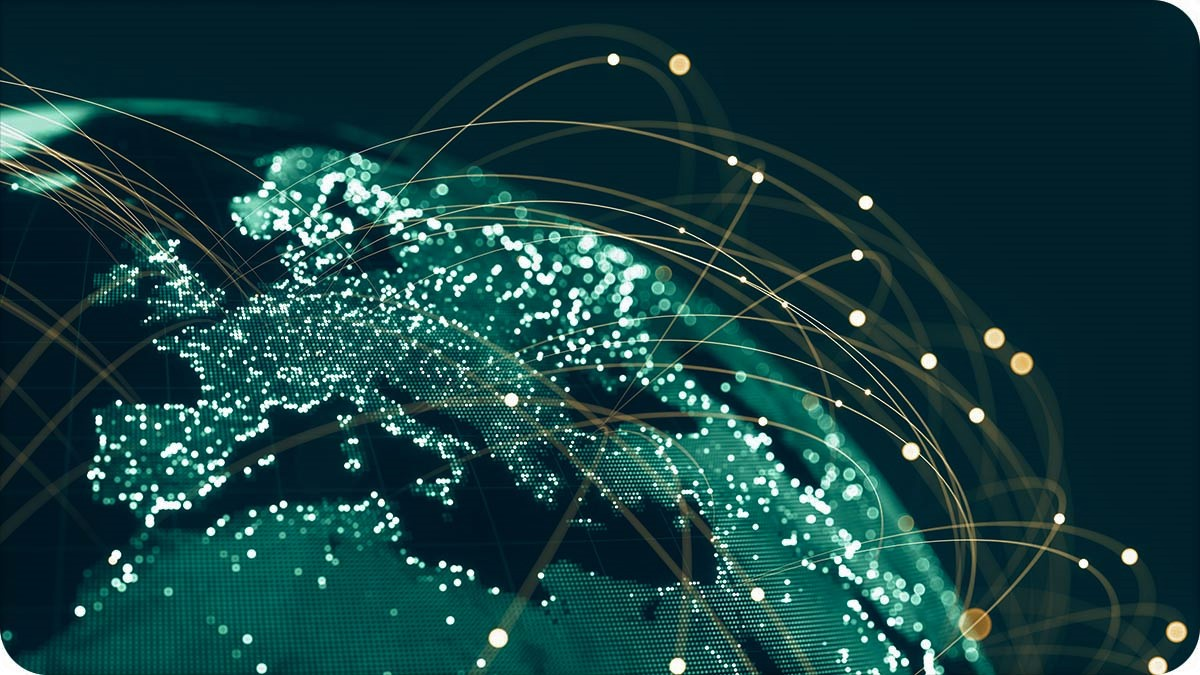
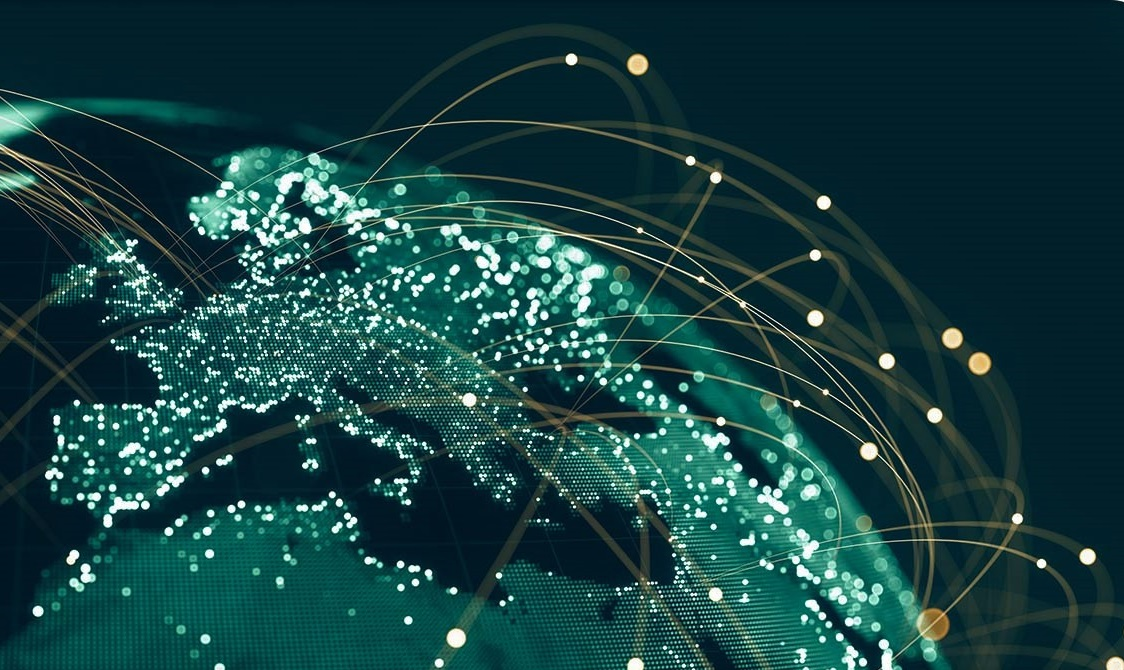
background-attachment: fixed
index, empresas y movilidad

diff --git a/style.css b/style.css
@@ -70,6 +70,11 @@ footer{
 body{
     background-color: black;
 }
+.bodyIEM{
+    background-image: url("src/pexels-mahdi-bafande-14226381.jpg");
+    background-size: contain;
+    background-attachment: fixed;
+}
 
 h1{
     color:white;
@@ -261,7 +266,7 @@ p {
                         /*FIN EMPRESAS*/
 
 
-                        /*MOVILIDAD*/
+                        /*MOVILIDAD*/                       
 .princMovilidad{
     background-image: url("src/2.jpg");
     background-size: 100%;

diff --git a/Empresas.html b/Empresas.html
@@ -8,7 +8,7 @@
 		<link rel="stylesheet" href="style.css">  <!-- Aqui podes incluir archivos externos, js, css-->
 		<link rel="icon" type="image/png" href="src/internet-symbol-internet-icon.png">
 	</head>
-	<body> 
+	<body class="bodyIEM"> 
 		<div class="flotante">
 			<button>
 				<a href="https://www.google.com.ar/maps/place/Campus+Universidad+De+La+Punta/@-33.1501612,-66.3061107,15.25z/data=!4m6!3m5!1s0x

diff --git a/Movilidad.html b/Movilidad.html
@@ -8,7 +8,7 @@
 		<link rel="stylesheet" href="style.css">  <!-- Aqui podes incluir archivos externos, js, css-->
 		<link rel="icon" type="image/png" href="src/internet-symbol-internet-icon.png">
 	</head>
-	<body> 
+	<body class="bodyIEM"> 
 		<div class="flotante">
 			<button>
 				<a href="https://www.google.com.ar/maps/place/Campus+Universidad+De+La+Punta/@-33.1501612,-66.3061107,15.25z/data=!4m6!3m5!1s0x

diff --git a/index.html b/index.html
@@ -8,7 +8,7 @@
 		<link rel="stylesheet" href="style.css">  <!-- Aqui podes incluir archivos externos css-->
 		<link rel="icon" type="image/png" href="src/internet-symbol-internet-icon.png">
 	</head>
-	<body> 
+	<body class="bodyIEM"> 
 		<div class="flotante">
 			<button>
 				<a href="https://www.google.com.ar/maps/place/Campus+Universidad+De+La+Punta/@-33.1501612,-66.3061107,15.25z/data=!4m6!3m5!1s0x
